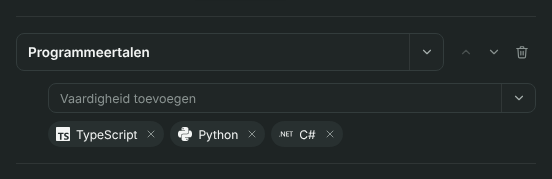
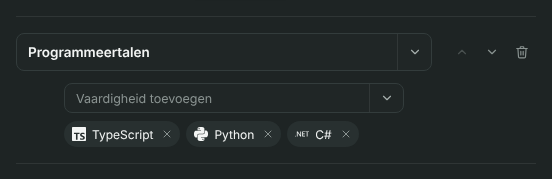
Vaardigheden: duidelijkere hiërarchie tussen groepskop en ingesprongen invoer
Invoer en chips 48px ingesprongen en maximaal 340px breed, groepskop sterk en breed, 16px ruimte
voor de acties uiterst rechts. Versie blijft 3.1.0.

Claude-Session: https://claude.ai/code/session_01AubWbEMogU9RUZkkAU85k2

diff --git a/src/renderer/app.css b/src/renderer/app.css
@@ -437,17 +437,18 @@ html.print-mode .cv-page { overflow: hidden; }
 /* categorie met vaardigheden: een rechthoekige eenheid (kop, ingesprongen invoer, chips), gescheiden door horizontale lijnen */
 .groups { display: flex; flex-direction: column; max-width: 520px; border-bottom: 1px solid var(--divider); }
 .group { display: flex; flex-direction: column; gap: var(--s-3); padding: var(--s-4) 0; border-top: 1px solid var(--divider); }
-.group-head { display: flex; align-items: center; gap: var(--s-2); }
+.group-head { display: flex; align-items: center; gap: var(--s-4); }
 .group-name { flex: 1 1 auto; min-width: 0; }
 .group-name .combo, .group-name .input { height: 38px; }
 .group-name .combo-input, .group-name .input { font-weight: 600; font-size: 13.5px; }
 .dots-num { width: 150px; flex: none; }
-.group-actions { display: flex; align-items: center; flex: none; margin-left: auto; }
+.group-actions { display: flex; align-items: center; flex: none; margin-left: auto; gap: 2px; }
 .group-actions .btn { color: var(--faint); }
 .group-actions .btn:hover:not(:disabled) { color: var(--text); }
 .group-actions [data-testid$='-remove']:hover { color: var(--danger); }
-.group-body { display: flex; flex-direction: column; gap: var(--s-2); margin-left: var(--s-6); max-width: none; }
+.group-body { display: flex; flex-direction: column; gap: var(--s-2); margin-left: 48px; max-width: 340px; }
 .group-body .combo { height: 30px; font-size: 12.5px; }
+.group-body .pills { max-width: 100%; }
 .group-body.flat { margin-left: 0; max-width: 520px; }
 .groups + .btn-row, .groups ~ .btn-row { padding-top: var(--s-2); }
 .skill-input { display: flex; flex-direction: column; gap: 6px; }

diff --git a/CHANGELOG.md b/CHANGELOG.md
@@ -20,7 +20,7 @@ This is a feature and UX release. The data format is unchanged (still v4). Exist
 **Final refinement (surfaces, Skills editor, split input)**
 - One surface scale, always dark to light: app `#0E1111`, surface `#151919`, elevated `#1B2020`, soft `#202626`. Controls are always lighter than the surface they sit on (no recessed inputs): inputs, segmented controls, chips, group editors, dropdowns, popovers and menus all follow the same rule, checked by an automated luminance test.
 - Borders are the exception: whitespace first, type second, a hairline only where it helps. Nesting inside a Skills category is shown by indentation and horizontal dividers, not by boxes or vertical lines. Inputs keep a subtle boundary.
-- Expanded **Vaardigheden** is reorganized: compact section controls (Indeling, Weergave, Iconen) without stretched segments or explanatory subtitles; every category is one rectangular unit (a prominent header row with the move and delete actions on the far right, an indented, smaller skill input and the chips) separated from the next by one horizontal divider; Indeling, Weergave and Iconen are rows with a fixed label column on the left and the controls on the right; the skill dropdown of a group with a known category is already filtered and shows no category strip; empty groups stay compact and editable; adding a group is a small ghost action.
+- Expanded **Vaardigheden** is reorganized: compact section controls (Indeling, Weergave, Iconen) without stretched segments or explanatory subtitles; every category is one rectangular unit (a prominent header row with the move and delete actions on the far right, a 48px-indented, narrower skill input and the chips aligned with it) separated from the next by one horizontal divider; Indeling, Weergave and Iconen are rows with a fixed label column on the left and the controls on the right; the skill dropdown of a group with a known category is already filtered and shows no category strip; empty groups stay compact and editable; adding a group is a small ghost action.
 - The skill and category inputs are one **split control**: an editable input and a separate chevron button in one shape with a subtle divider. Clicking the field only edits. Typing shows suggestions. The chevron opens and closes the full list without touching the value. ArrowDown, Enter, Tab and Escape keep working; ArrowDown now also opens the list from an empty focused field.
 - Icon settings: the heading is just **Iconen**. A section has one choice (Standaard, Automatisch, Merkkleuren, Monochroom, Uit); the "Eigen" badge, the inheritance note and the accordion are gone. Under Stijl, **Iconen** keeps the global switch and color choice. The stored format is unchanged: existing preferences open exactly as before.
 - Less width: compact segmented controls, short numeric and color fields, limited maximum widths inside a section, and no horizontal overflow from 380 px to 900 px editors.
